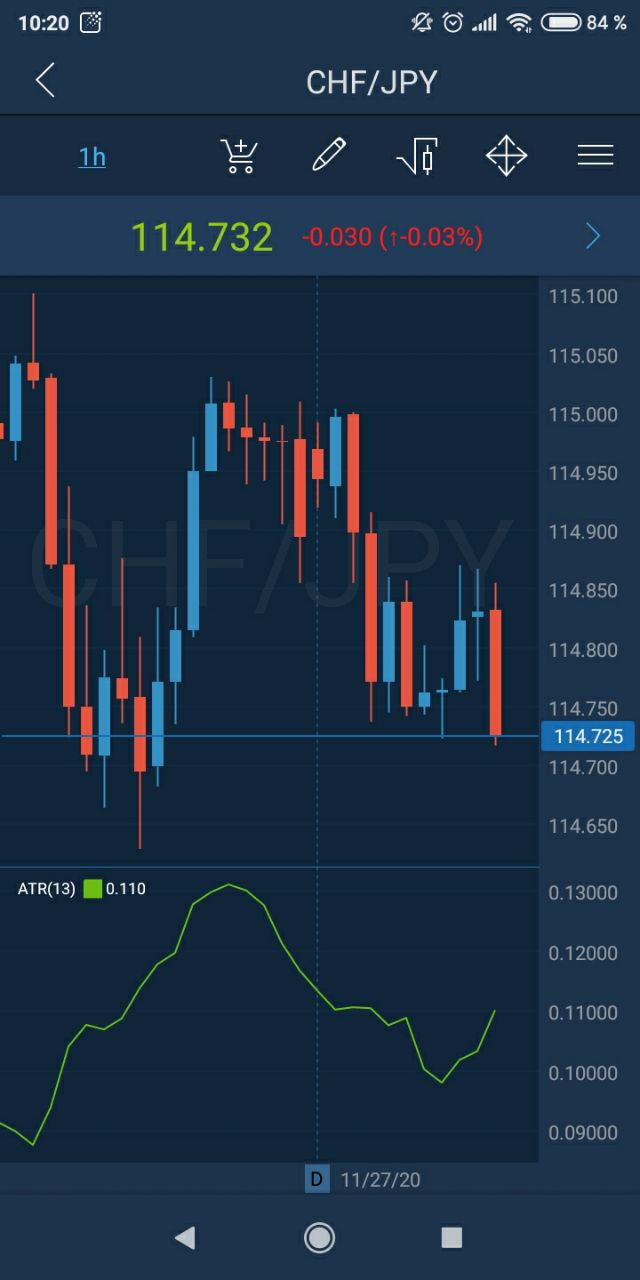
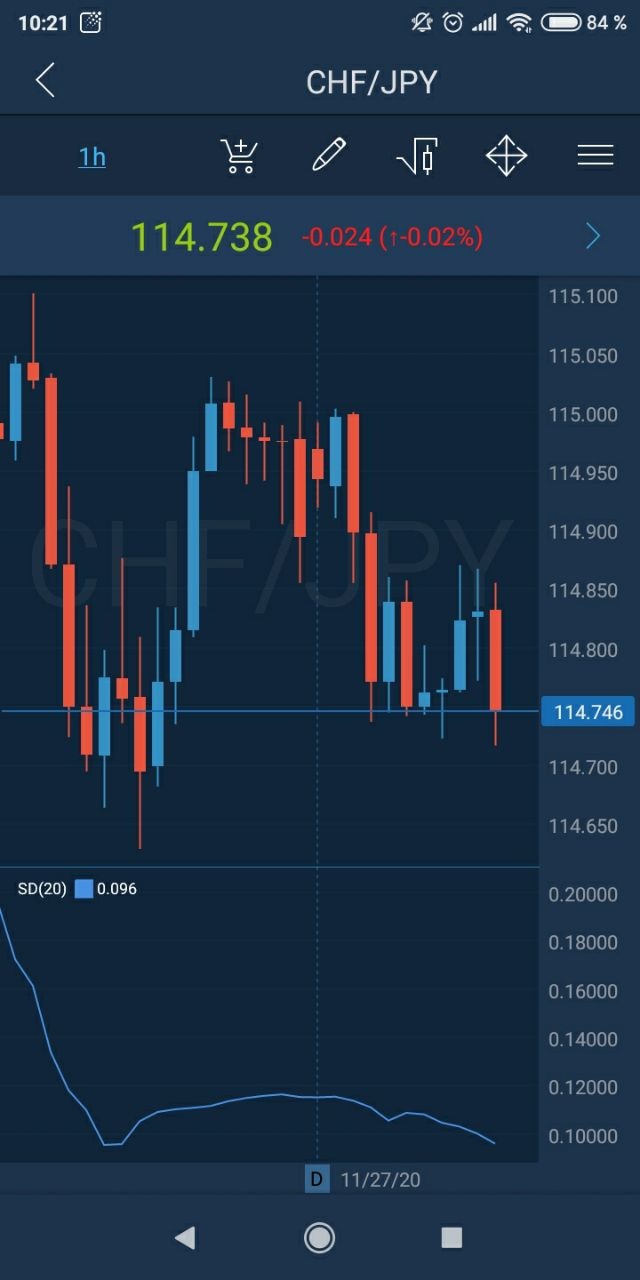
GitBook: [master] 3 pages and 2 assets modified

diff --git a/mobile-applications/phone/android/technical-indicators/volatility/sd-standard-deviation.md b/mobile-applications/phone/android/technical-indicators/volatility/sd-standard-deviation.md
@@ -1,0 +1,47 @@
+# SD \(Standard deviation\)
+
+Standard deviation is a way of measuring price volatility by correlating a price range with its moving average. The higher the indicator value, the wider the spread between the price and its moving average, the more volatile the instrument and the more scattered price bars become. The lower the indicator value, the smaller the spread between the price and its moving average, the less volatile the instrument, and the closer the price bars become to each other. The standard deviation is used as part of other indicators such as Bollinger Bands. It is often used in combination with other signals and analysis methods.
+
+The market behavior represents the interchange of high trading activity and languid market. So, the indicator can be interpreted easily:
+
+* if its value is too low, i.e., the market is absolutely inactive, it makes sense to expect a spike soon;
+* otherwise, if it is extremely high, it most probably means that activity will decline soon.
+
+**Use of the Standard deviation indicator**
+
+Using the probability distribution models allows you to create many trading strategies, but the most common use of the standard deviation indicator is to predict price reversals based on the principle of reversion to the mean. Retracement to the average is basically the principle on which oscillators like the Relative Strength Index are constructed. It argues that each deviation from the mean must be followed by a return to the same so that the overall distribution of prices fits the standard distribution.
+
+For example, if a currency is oscillating between 1.2700 and 1.3700 for an extended period of time, with much of the movement bound in the middle of the range, you can trade the pattern by assuming mean regression on the basis of a standard distribution.
+
+Conversely, if prices are clustered at the edges of the same range, for example, around 1.3600-1.3700, or 1.2700 and 1.2800, the probability distribution of the prices may not be standard, and using the standard deviation indicator for trading while assuming mean regression may be disastrous.
+
+### Calculation
+
+StdDev \(i\) = SQRT \(AMOUNT \(j = i - N, i\) / N\)
+
+AMOUNT \(j = i - N, i\) = SUM \(\(ApPRICE \(j\) - MA \(ApPRICE , N, i\)\) ^ 2\)
+
+Where:
+
+StdDev \(i\) — Standard Deviation of the current bar;
+
+SQRT — square root;
+
+AMOUNT\(j = i - N, i\) — sum of squares from j = i - N to i;
+
+N — smoothing period;
+
+ApPRICE \(j\) — applied price of the j bar;
+
+MA \(ApPRICE , N, i\) — moving average value with the N period on the current bar;
+
+ApPRICE \(i\) — applied price of the current bar.
+
+### Main parameters
+
+interval – period of indicator plotting, default is 20.
+
+The Standard deviation technical indicator looks as follows:
+
+![](../../../../../.gitbook/assets/1%20%2820%29.jpg)
+

diff --git a/SUMMARY.md b/SUMMARY.md
@@ -215,6 +215,7 @@
           * [ADX \(Average directional index\)](mobile-applications/phone/android/technical-indicators/trend/adx-average-directional-index.md)
         * [Volatility](mobile-applications/phone/android/technical-indicators/volatility/README.md)
           * [ATR \(Average true range\)](mobile-applications/phone/android/technical-indicators/volatility/atr-average-true-range.md)
+          * [SD \(Standard deviation\)](mobile-applications/phone/android/technical-indicators/volatility/sd-standard-deviation.md)
       * [Order entry](mobile-applications/phone/android/order-entry.md)
       * [Orders](mobile-applications/phone/android/orders.md)
       * [Trading ideas](mobile-applications/phone/android/trading-ideas.md)

diff --git a/mobile-applications/phone/android/technical-indicators/volatility/atr-average-true-range.md b/mobile-applications/phone/android/technical-indicators/volatility/atr-average-true-range.md
@@ -37,5 +37,5 @@ Interval – number of periods involved in the indicator calculation, 13 by defa
 
 The indicator looks as follows on the chart:
 
-![](../../../../../.gitbook/assets/1%20%2820%29.jpg)
+![](../../../../../.gitbook/assets/1%20%2821%29.jpg)
 
